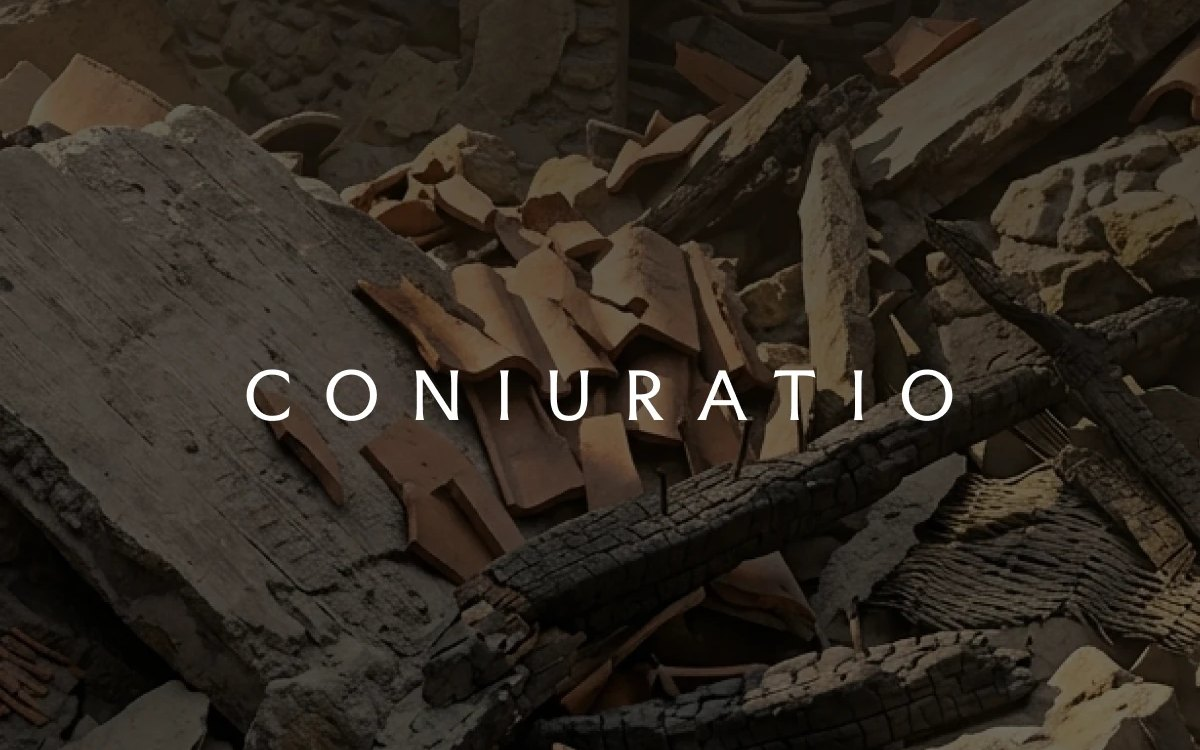
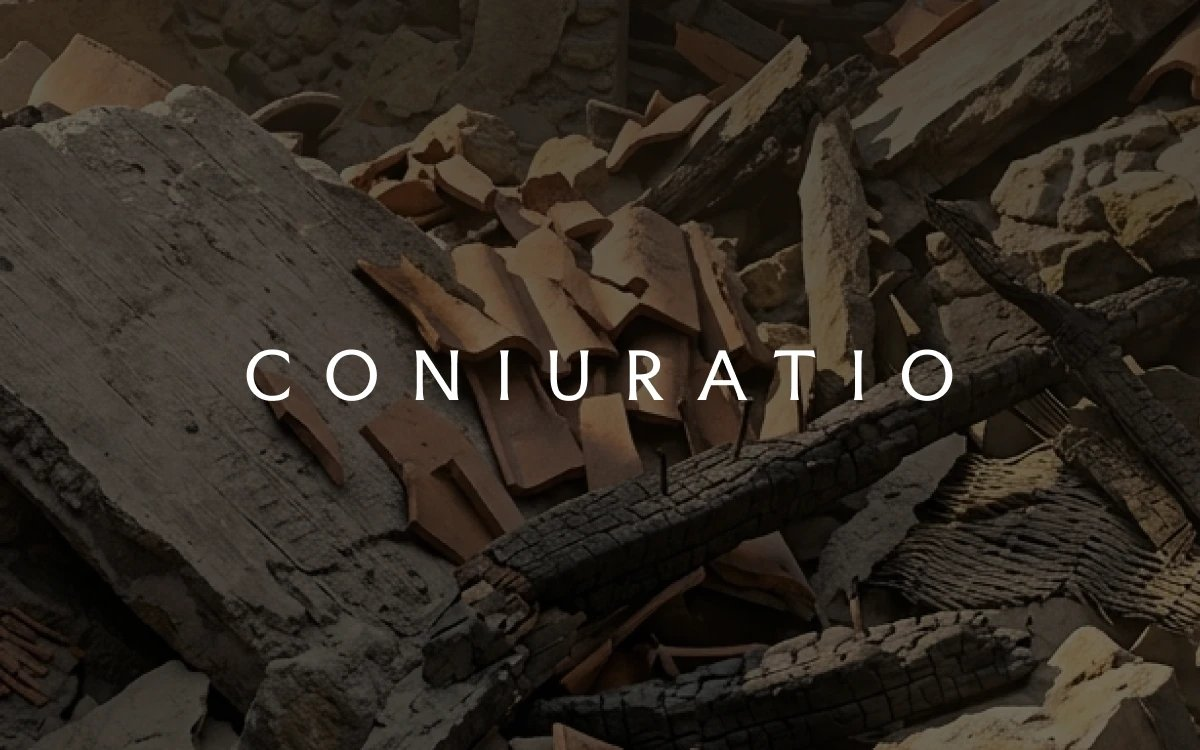
Home: copertine di Hoomie e miniatura 16:10 di Coniuratio
Claude-Session: https://claude.ai/code/session_01R5LiDbTbGFbUFmFFDBYqmx

diff --git a/de/index.html b/de/index.html
@@ -63,7 +63,7 @@
            data-c   = colore del segnaposto finché non c'è la copertina -->
       <div class="rows">
         <a class="row" href="progetti/club-deal.html" data-cat="ux" data-img="../img/club-deal/home.jpg" data-thumb="../img/club-deal/home-m.jpg"><span class="mono">2026</span><h3>Club Deal</h3><p>In Startups investieren, auch ohne aus dieser Welt zu kommen.</p><span class="role mono">UI/UX · Branding</span><span class="arrow" aria-hidden="true">→</span></a>
-        <a class="row" href="progetti/hoomie.html" data-cat="ux" data-img="../img/hoomie/cover.jpg"><span class="mono">2024</span><h3>Hoomie</h3><p>Eine Wohnung und die passenden Mitbewohner finden, mit den Menschen vor den Wohnungen.</p><span class="role mono">UI/UX · App</span><span class="arrow" aria-hidden="true">→</span></a>
+        <a class="row" href="progetti/hoomie.html" data-cat="ux" data-img="../img/hoomie/home.jpg" data-thumb="../img/hoomie/home-m.jpg"><span class="mono">2024</span><h3>Hoomie</h3><p>Eine Wohnung und die passenden Mitbewohner finden, mit den Menschen vor den Wohnungen.</p><span class="role mono">UI/UX · App</span><span class="arrow" aria-hidden="true">→</span></a>
         <a class="row" href="progetti/coniuratio.html" data-cat="personale" data-img="../img/coniuratio/home.jpg" data-thumb="../img/coniuratio/home-m.jpg"><span class="mono">Laufend</span><h3>Coniuratio</h3><p>Ein Spiel, das ich allein entwickle, inklusive Interface.</p><span class="role mono">Persönlich · Game UI</span><span class="arrow" aria-hidden="true">→</span></a>
         <a class="row" href="progetti/ventinove-fest.html" data-cat="brand" data-img="../img/ventinove-fest/home.jpg" data-thumb="../img/ventinove-fest/home-m.jpg"><span class="mono">2024</span><h3>Ventinove Fest</h3><p>Das Festival von Cuneo, gegen die Vorstellung, dass in der Stadt nichts los ist.</p><span class="role mono">Branding · Kommunikation</span><span class="arrow" aria-hidden="true">→</span></a>
         <a class="row" href="progetti/siel.html" data-cat="brand" data-img="../img/siel/cover.jpg"><span class="mono">2024</span><h3>SI.EL.</h3><p>Ein fünfzehn Jahre altes Logo erneuern, ohne jemanden zu verwirren.</p><span class="role mono">Branding · Logo</span><span class="arrow" aria-hidden="true">→</span></a>

diff --git a/en/index.html b/en/index.html
@@ -63,7 +63,7 @@
            data-c   = colore del segnaposto finché non c'è la copertina -->
       <div class="rows">
         <a class="row" href="progetti/club-deal.html" data-cat="ux" data-img="../img/club-deal/home.jpg" data-thumb="../img/club-deal/home-m.jpg"><span class="mono">2026</span><h3>Club Deal</h3><p>Investing in startups without coming from that world.</p><span class="role mono">UI/UX · Branding</span><span class="arrow" aria-hidden="true">→</span></a>
-        <a class="row" href="progetti/hoomie.html" data-cat="ux" data-img="../img/hoomie/cover.jpg"><span class="mono">2024</span><h3>Hoomie</h3><p>Finding a home and the right flatmates, with people before places.</p><span class="role mono">UI/UX · App</span><span class="arrow" aria-hidden="true">→</span></a>
+        <a class="row" href="progetti/hoomie.html" data-cat="ux" data-img="../img/hoomie/home.jpg" data-thumb="../img/hoomie/home-m.jpg"><span class="mono">2024</span><h3>Hoomie</h3><p>Finding a home and the right flatmates, with people before places.</p><span class="role mono">UI/UX · App</span><span class="arrow" aria-hidden="true">→</span></a>
         <a class="row" href="progetti/coniuratio.html" data-cat="personale" data-img="../img/coniuratio/home.jpg" data-thumb="../img/coniuratio/home-m.jpg"><span class="mono">Ongoing</span><h3>Coniuratio</h3><p>A game I'm building on my own, interface included.</p><span class="role mono">Personal · Game UI</span><span class="arrow" aria-hidden="true">→</span></a>
         <a class="row" href="progetti/ventinove-fest.html" data-cat="brand" data-img="../img/ventinove-fest/home.jpg" data-thumb="../img/ventinove-fest/home-m.jpg"><span class="mono">2024</span><h3>Ventinove Fest</h3><p>Cuneo's festival, against the idea that there's nothing to do in town.</p><span class="role mono">Branding · Communication</span><span class="arrow" aria-hidden="true">→</span></a>
         <a class="row" href="progetti/siel.html" data-cat="brand" data-img="../img/siel/cover.jpg"><span class="mono">2024</span><h3>SI.EL.</h3><p>Renewing a fifteen-year-old logo without confusing anyone.</p><span class="role mono">Branding · Logo</span><span class="arrow" aria-hidden="true">→</span></a>

diff --git a/index.html b/index.html
@@ -63,7 +63,7 @@
            data-c   = colore del segnaposto finché non c'è la copertina -->
       <div class="rows">
         <a class="row" href="progetti/club-deal.html" data-cat="ux" data-img="img/club-deal/home.jpg" data-thumb="img/club-deal/home-m.jpg"><span class="mono">2026</span><h3>Club Deal</h3><p>Investire in startup anche senza venire da quel mondo.</p><span class="role mono">UI/UX · Branding</span><span class="arrow" aria-hidden="true">→</span></a>
-        <a class="row" href="progetti/hoomie.html" data-cat="ux" data-img="img/hoomie/cover.jpg"><span class="mono">2024</span><h3>Hoomie</h3><p>Trovare casa e coinquilini giusti, con le persone prima delle case.</p><span class="role mono">UI/UX · App</span><span class="arrow" aria-hidden="true">→</span></a>
+        <a class="row" href="progetti/hoomie.html" data-cat="ux" data-img="img/hoomie/home.jpg" data-thumb="img/hoomie/home-m.jpg"><span class="mono">2024</span><h3>Hoomie</h3><p>Trovare casa e coinquilini giusti, con le persone prima delle case.</p><span class="role mono">UI/UX · App</span><span class="arrow" aria-hidden="true">→</span></a>
         <a class="row" href="progetti/coniuratio.html" data-cat="personale" data-img="img/coniuratio/home.jpg" data-thumb="img/coniuratio/home-m.jpg"><span class="mono">In corso</span><h3>Coniuratio</h3><p>Un gioco che sto costruendo da solo, interfaccia compresa.</p><span class="role mono">Personale · Game UI</span><span class="arrow" aria-hidden="true">→</span></a>
         <a class="row" href="progetti/ventinove-fest.html" data-cat="brand" data-img="img/ventinove-fest/home.jpg" data-thumb="img/ventinove-fest/home-m.jpg"><span class="mono">2024</span><h3>Ventinove Fest</h3><p>Il festival di Cuneo, contro l'idea che in città non ci sia niente da fare.</p><span class="role mono">Branding · Comunicazione</span><span class="arrow" aria-hidden="true">→</span></a>
         <a class="row" href="progetti/siel.html" data-cat="brand" data-img="img/siel/cover.jpg"><span class="mono">2024</span><h3>SI.EL.</h3><p>Rinnovare un logo di quindici anni senza confondere nessuno.</p><span class="role mono">Branding · Logo</span><span class="arrow" aria-hidden="true">→</span></a>
